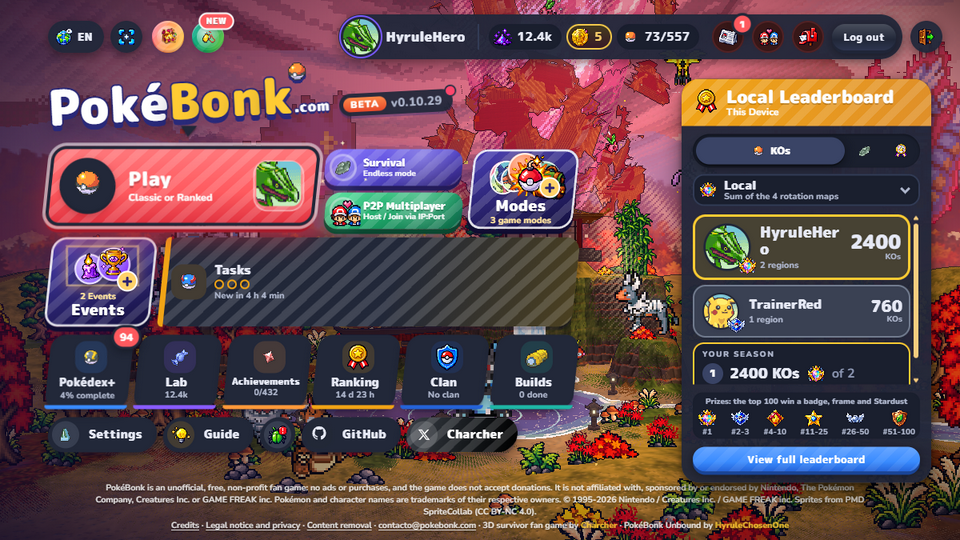
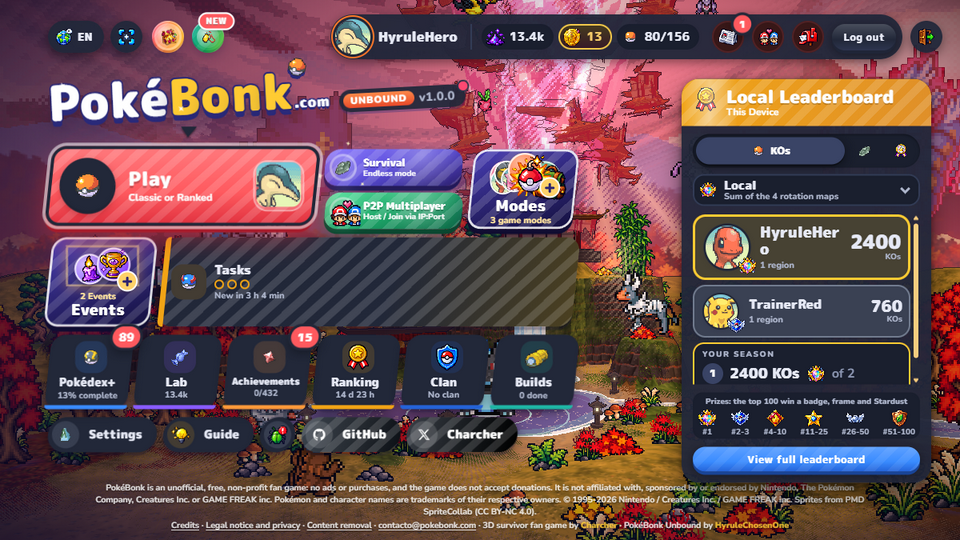
Update v1.0.0 docs, screenshots, and mod database for Windows, Linux/SteamOS, and Android

diff --git a/README.md b/README.md
@@ -3,37 +3,43 @@
 </p>
 
 <p align="center">
-  Desktop client for <a href="https://pokebonk.com/">PokéBonk</a> with isolated Online Mode, self-contained Offline Mode, local build versioning, multi-profile saves, and an offline modding engine.
+  Cross-platform client for <a href="https://pokebonk.com/">PokéBonk</a> (Windows, Linux / SteamOS, and Android) with isolated Online Mode, self-contained Offline Mode, local build versioning, multi-profile saves, dynamic mod settings, in-app updates, and an offline modding engine.
 </p>
 
 ---
 
 ## Features
 
+- **Cross-Platform (Windows, Linux / SteamOS & Android)**
+  - **Windows & Linux (SteamOS / Steam Deck)**: Full Electron desktop client with native toolbar, dynamic status icons, `1280x800` Steam Deck support, and Wayland/X11 auto-detection (`--ozone-platform-hint=auto`).
+  - **Android APK**: Native Android wrapper embedding the exact shared local Node.js server engine (`nodejs-mobile`) with isolated Online/Offline WebViews and a draggable floating **Unbound Settings** button that opens a touch-friendly mobile GUI for every setting.
+
 - **Isolated Online Mode**
-  - Runs `https://pokebonk.com/` in a dedicated, sandboxed browser session (`persist:pokebonk-unbound-online`) with no request interception and no injected scripts.
+  - Runs `https://pokebonk.com/` in a dedicated, sandboxed browser session (`persist:pokebonk-unbound-online` on desktop, isolated cookie/storage partition on Android) with no request interception and no injected scripts.
   - Online Mode stays 100% vanilla and never loads mods or touches online saves.
   - Non-cheat Offline mod settings can be configured in advance from **Unbound Settings** while in Online Mode; all gameplay-altering cheats (Run Speed, God Mode, Overdrive, Difficulty Unlocks) and save unlock tools remain strictly locked until you switch to Offline Mode.
   - Includes one-click Online savefile export and one-way sync to Offline Mode.
 
 - **1:1 Vanilla Offline Mode**
-  - Serves PokéBonk locally from `127.0.0.1` with local API emulation and a local-only multi-profile leaderboard.
+  - Serves PokéBonk locally from `127.0.0.1` with local API emulation, a local-only multi-profile leaderboard, fresh **PokéBonk Unbound** release notes, and direct **GitHub** + **Creator X (`@ImCharcher`)** links on the menu.
   - Releases ship clean without bundled mods — Offline Mode runs pure 1:1 vanilla out of the box.
 
 - **Multi-Profile Local Save System**
   - Create, switch, rename, import, export, and delete independent offline trainer profiles.
   - Logging out opens the profile chooser; if no offline profiles exist yet, you are prompted to enter a trainer name before starting.
 
-- **Local Build Version History**
+- **Local Build Version History & Client Updates**
   - Maintain and switch between the bundled Preserved Build and synced Live Updates from `pokebonk.com` inside **Unbound Settings**.
+  - Built-in **Check for Updates** queries `HyruleChosenOne/Pokebonk-Unbound` GitHub Releases and downloads/installs newer client versions right from the app.
 
 - **Core Offline Modding Engine (`./mods/`)**
-  - Built-in core API support for **Custom Attacks**, **Custom Visual Effects (VFX)**, **Additive Custom Music & SFX** (without replacing vanilla songs), **Custom Playable Characters** (8-direction animated spritesheets, shiny variants, portraits, icons, cries, and custom Ultimates), **Custom Pokéball Items**, asset overrides, JSON data patches, bundle patches, scripts, and CSS.
+  - Built-in core API support for **Custom Attacks**, **Custom Visual Effects (VFX)**, **Additive Custom Music & SFX** (without replacing vanilla songs), **Custom Playable Characters** (8-direction animated spritesheets, shiny variants, portraits, icons, cries, and custom Ultimates), **Custom Stages & Regions**, **Custom Pokéball Items**, declarative **Mod Settings**, asset overrides, JSON data patches, bundle patches, scripts, and CSS.
   - See [docs/MODDING.md](docs/MODDING.md) for the complete modding reference.
 
-- **Streamlined Toolbar, Unbound Settings & Mod Browser**
-  - Clean top toolbar (`Mode | Saves | Unbound Settings`) with dynamic status indicator icons.
-  - All mod toggles, per-mod actions, version history, local profiles, and the in-app **Mod Browser** (pulling directly from `mods-database/` in `HyruleChosenOne/Pokebonk-Unbound` or any custom GitHub `owner/repo`) live inside **Unbound Settings**.
+- **Streamlined Unbound Settings, Dynamic Mod Settings & Mod Browser**
+  - Clean desktop top toolbar (`Mode | Saves | Unbound Settings`) and Android draggable floating **Unbound Settings** button with dynamic status indicators.
+  - Dynamic **Mod Settings** tab automatically populates settings, toggles, and actions for every currently enabled mod.
+  - Built-in **Mod Browser** installs optional mods in 1 click directly from `mods-database/` in `HyruleChosenOne/Pokebonk-Unbound` or any custom GitHub `owner/repo`.
 
 ---
 
@@ -106,24 +112,33 @@
 
 ## Release Editions (v1.0.0)
 
-Two Windows portable executables are provided on the [Releases](https://github.com/HyruleChosenOne/Pokebonk-Unbound/releases) page. Neither release comes bundled with mods — install any optional mod with 1 click through **Unbound Settings -> Mod Browser**.
+Clean builds for **Windows**, **Linux / SteamOS**, and **Android** are provided on the [Releases](https://github.com/HyruleChosenOne/Pokebonk-Unbound/releases) page. Neither Portable nor Complete comes bundled with mods — install any optional mod with 1 click through **Unbound Settings -> Mod Browser**.
 
-| Edition | Output File | Bundled PokéBonk Version | Contents |
-| --- | --- | --- | --- |
-| **Portable** | `PokeBonk-Unbound-Portable-1.0.0.exe` | Downloaded on demand | Lightweight client shell and Online Mode. Switching to Offline Mode automatically downloads the latest live build into `./build-data/` alongside the executable. |
-| **Complete** | `PokeBonk-Unbound-Complete-1.0.0.exe` | **PokéBonk `v0.10.29`** (build `mwtpofww`) | Self-contained release bundling the complete `v0.10.29` offline game build and sprites out of the box (no bundled mods; updatable anytime in Unbound Settings). |
+| Platform | Edition | Output File | Bundled PokéBonk Version | Notes |
+| --- | --- | --- | --- | --- |
+| **Windows (x64)** | **Portable** | `PokeBonk-Unbound-Portable-1.0.0.exe` | Downloaded on demand | Lightweight shell + Online Mode; switching to Offline Mode downloads the latest live build into `./build-data/`. |
+| **Windows (x64)** | **Complete** | `PokeBonk-Unbound-Complete-1.0.0.exe` | **PokéBonk `v0.10.29`** (build `mwtpofww`) | Self-contained executable bundling the complete `v0.10.29` offline build and sprites out of the box (updatable anytime). |
+| **Linux / SteamOS (x64)** | **Portable** | `PokeBonk-Unbound-Portable-1.0.0-linux-x64.tar.gz` | Downloaded on demand | Extract and run `./Pokebonk-Unbound.sh` (or add to Steam as a Non-Steam Game on Steam Deck). Includes `./install-desktop-shortcut.sh`. |
+| **Linux / SteamOS (x64)** | **Complete** | `PokeBonk-Unbound-Complete-1.0.0-linux-x64.tar.gz` | **PokéBonk `v0.10.29`** (build `mwtpofww`) | Self-contained Linux/SteamOS archive bundling the complete `v0.10.29` offline build and sprites (zero bundled mods). |
+| **Android (ARM64 / ARMv7)** | **Portable** | `PokeBonk-Unbound-Portable-1.0.0.apk` | Downloaded on demand | Lightweight signed APK (`Android 8.0+`) with draggable floating **Unbound Settings** button and mobile-friendly GUI. |
+| **Android (ARM64 / ARMv7)** | **Complete** | `PokeBonk-Unbound-Complete-1.0.0.apk` | **PokéBonk `v0.10.29`** (build `mwtpofww`) | Self-contained signed APK bundling the complete `v0.10.29` offline build and sprites (zero bundled mods). |
+
+### Platform Quick Start
+
+- **SteamOS / Steam Deck**: Extract the `.tar.gz` in Desktop Mode, run `./Pokebonk-Unbound.sh` (or `./install-desktop-shortcut.sh`), or right-click `Pokebonk-Unbound.sh` -> **Add to Steam** to launch from Gaming Mode (`1280x800` supported natively).
+- **Android**: Install the `.apk` (enable "Install unknown apps" if prompted). Tap or drag the floating **Unbound Settings** button anytime to switch Online/Offline modes, manage profiles & save backups, toggle mods, browse the Mod Browser, adjust dynamic Mod Settings, or check for client updates.
 
 ---
 
 ## Available Mods
 
-Mods are not bundled in the executables and are installed on demand through **Unbound Settings -> Mod Browser**.
+Mods are not bundled in the releases and are installed on demand through **Unbound Settings -> Mod Browser**.
 
 For the full catalog of official available mods, descriptions, preview images, and highlights, see **[mods-datas.md](mods-datas.md)**.
 
 ---
 
-## Shortcuts
+## Shortcuts (Desktop)
 
 - `F1` — Show / hide the top native toolbar
 - `F11` — Toggle fullscreen
@@ -133,15 +148,20 @@ For the full catalog of official available mods, descriptions, preview images, a
 
 ## Data Storage
 
-- **Offline Build Data (`versions/`, `pokeapi/`, `pokeapi-sprites/`)**: Stored in `./build-data/` alongside the `.exe` folder (falls back to `%APPDATA%\pokebonk-unbound\build-data` if the executable directory is read-only). Override with `POKEBONK_UNBOUND_BUILD_DIR`.
-- **Savefiles, Profiles & Session Data (`saves/`, preferences, browser sessions)**: Stored in `%APPDATA%\pokebonk-unbound` on Windows so saves and sessions stay consistent across editions. Override with `POKEBONK_UNBOUND_DATA_DIR`.
-- **Mods**: Downloaded by the Mod Browser into `%APPDATA%\pokebonk-unbound\mods` (also reads `./mods/` beside the executable if created manually).
+- **Windows**:
+  - Offline Build Data (`versions/`, `pokeapi/`, `pokeapi-sprites/`): `./build-data/` beside the `.exe` (fallback `%APPDATA%\pokebonk-unbound\build-data`). Override with `POKEBONK_UNBOUND_BUILD_DIR`.
+  - Saves, Profiles, Mods & Sessions: `%APPDATA%\pokebonk-unbound` (also reads `./mods/` beside the `.exe` if present). Override with `POKEBONK_UNBOUND_DATA_DIR`.
+- **Linux / SteamOS**:
+  - Offline Build Data: `./build-data/` beside the extracted folder or AppImage (fallback `~/.config/pokebonk-unbound/build-data`).
+  - Saves, Profiles, Mods & Sessions: `~/.config/pokebonk-unbound` (also reads `./mods/` beside the folder if present).
+- **Android**:
+  - Stored inside app-private storage (`files/pokebonk-unbound/`). Export and import `.json` trainer save backups anytime via **Unbound Settings -> Profiles**.
 
 ---
 
 ## Building from Source
 
-Requires Node.js 20+ and npm.
+Requires Node.js 20+ and npm (plus JDK 17/21 and Android SDK/NDK for Android APKs).
 
 ```bash
 npm install
@@ -153,7 +173,7 @@ npm install
 npm start
 ```
 
-### Bundle the Complete Offline Build (Required for Complete Edition)
+### Bundle the Complete Offline Build (Required for Complete Editions)
 
 The repository excludes the upstream PokéBonk build files (`bundled-build/`). To download and package a local copy from `pokebonk.com`:
 
@@ -167,14 +187,20 @@ npm run bundle:offline
 npm test
 ```
 
-### Build Windows Executables
+### Build Platform Releases
 
 ```bash
-# Portable edition (lightweight, downloads offline build on demand)
+# Windows Portable & Complete (.exe)
 npm run build:portable
-
-# Complete edition (includes bundled-build/, zero bundled mods)
 npm run build:complete
+
+# Linux / SteamOS Portable & Complete (.tar.gz / .AppImage on Linux)
+npm run build:linux:portable
+npm run build:linux:complete
+
+# Android Portable & Complete (.apk)
+npm run build:android:portable
+npm run build:android:complete
 ```
 
 ---

diff --git a/docs/MODDING.md b/docs/MODDING.md
@@ -70,7 +70,8 @@ Standalone drop-in files placed directly in `./mods/` (`.css`, `.js`, `.patch.js
 | `musicDir` | `string` | Core API: relative directory of custom music `.json` descriptors or drop-in audio files. |
 | `customSfx` | `object[]` | Core API: additive custom SFX clips routed through the native SFX bus. |
 | `sfxDir` | `string` | Core API: relative directory of custom SFX `.json` descriptors or drop-in audio files. |
-| `toolbarActions` | `object[]` | Action buttons displayed inside the mod's card in **Unbound Settings -> Installed Mods**. |
+| `settings` | `object[]` | Declarative mod settings (`toggle` / `select`) rendered automatically in **Unbound Settings -> Mod Settings** when the mod is enabled. |
+| `toolbarActions` | `object[]` | Action buttons displayed inside **Unbound Settings -> Installed Mods** and **Mod Settings**. |
 | `styles` | `string[]` | Relative CSS files injected into the game document. |
 | `scripts` | `string[]` | Relative JS files executed in Offline Mode with `window.pokebonkModAPI`. |
 | `assetsDir` | `string` | Directory whose files override matching game asset paths. |
@@ -372,9 +373,45 @@ Custom SFX clips decode once via Web Audio API and play through PokéBonk's nati
 
 ---
 
-## 7. Mod Actions (`toolbarActions` in Unbound Settings)
+## 7. Dynamic Mod Settings (`settings`) & Mod Actions (`toolbarActions`)
 
-Mods can declare action buttons that appear inside the mod's card in **Unbound Settings -> Installed Mods** when the mod is enabled. Non-cheat actions (such as opening a mod subfolder) work in any mode; profile-mutating unlock/cheat actions remain locked until Offline Mode.
+Whenever a mod is enabled, **Unbound Settings -> Mod Settings** (on Desktop and Android) dynamically renders a configuration card for that mod using its `settings` schema, `toolbarActions`, and additive audio metadata.
+
+### Declarative Mod Settings (`settings`)
+
+Add a `"settings"` array to `mod.json` to expose persistent per-mod toggles and dropdowns (saved automatically in `<modsDir>/mod-settings.json` and readable in Offline Mode):
+
+```json
+"settings": [
+  {
+    "key": "extraMusicWeight",
+    "label": "High Custom Track Frequency",
+    "desc": "Play custom regional battle tracks more frequently in runs.",
+    "type": "toggle",
+    "default": true,
+    "cheat": false
+  },
+  {
+    "key": "spawnTier",
+    "label": "Custom Boss Density",
+    "desc": "Adjusts custom boss encounter rate in Offline Mode.",
+    "type": "select",
+    "default": "normal",
+    "options": [
+      { "value": "normal", "label": "Normal (1:1)" },
+      { "value": "high", "label": "High" }
+    ],
+    "cheat": true
+  }
+]
+```
+
+- Supported `type` values: `"toggle"` (boolean switch) and `"select"` (dropdown list of strings or `{ "value", "label" }` objects).
+- Set `"cheat": true` on any gameplay-altering setting — the engine automatically locks that control while in Online Mode so only non-cheat preferences can be pre-configured online.
+
+### Mod Actions (`toolbarActions`)
+
+Mods can also declare action buttons that appear inside the mod's card in **Unbound Settings -> Installed Mods** and **Mod Settings** when the mod is enabled. Non-cheat actions (such as opening a mod subfolder) work in any mode; profile-mutating unlock/cheat actions remain locked until Offline Mode.
 
 Supported item shapes:
 
